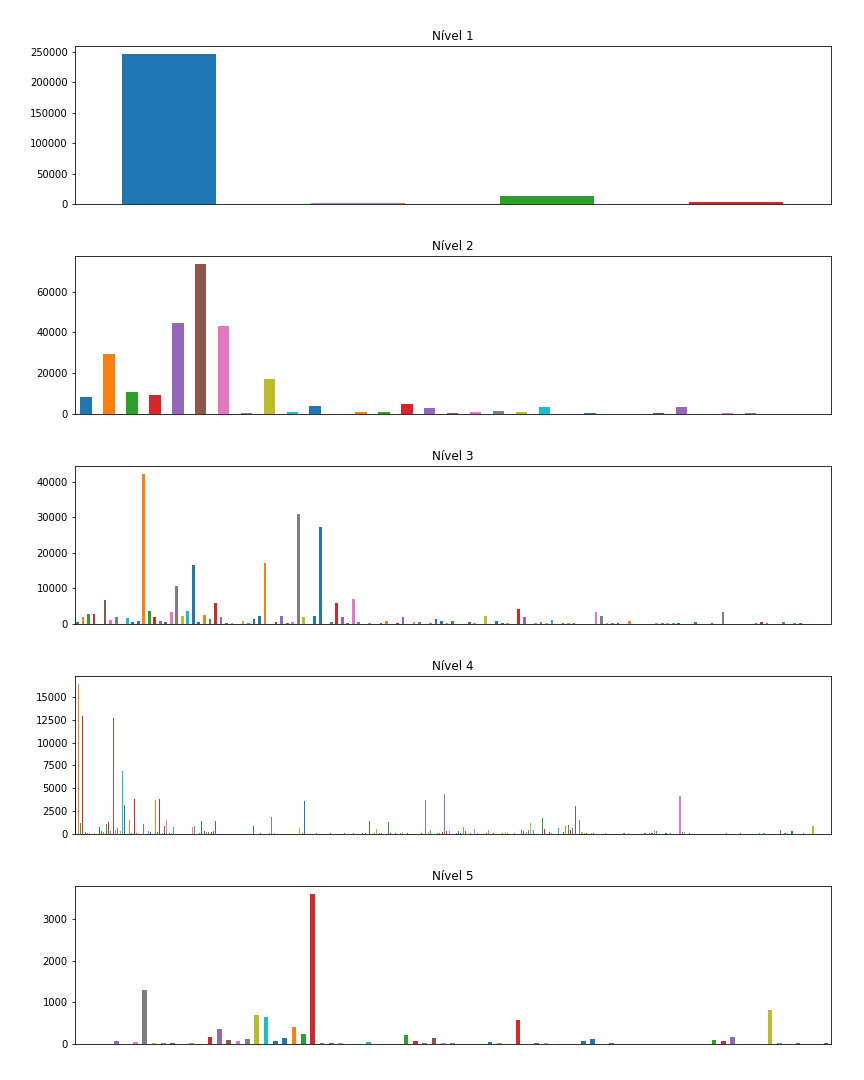
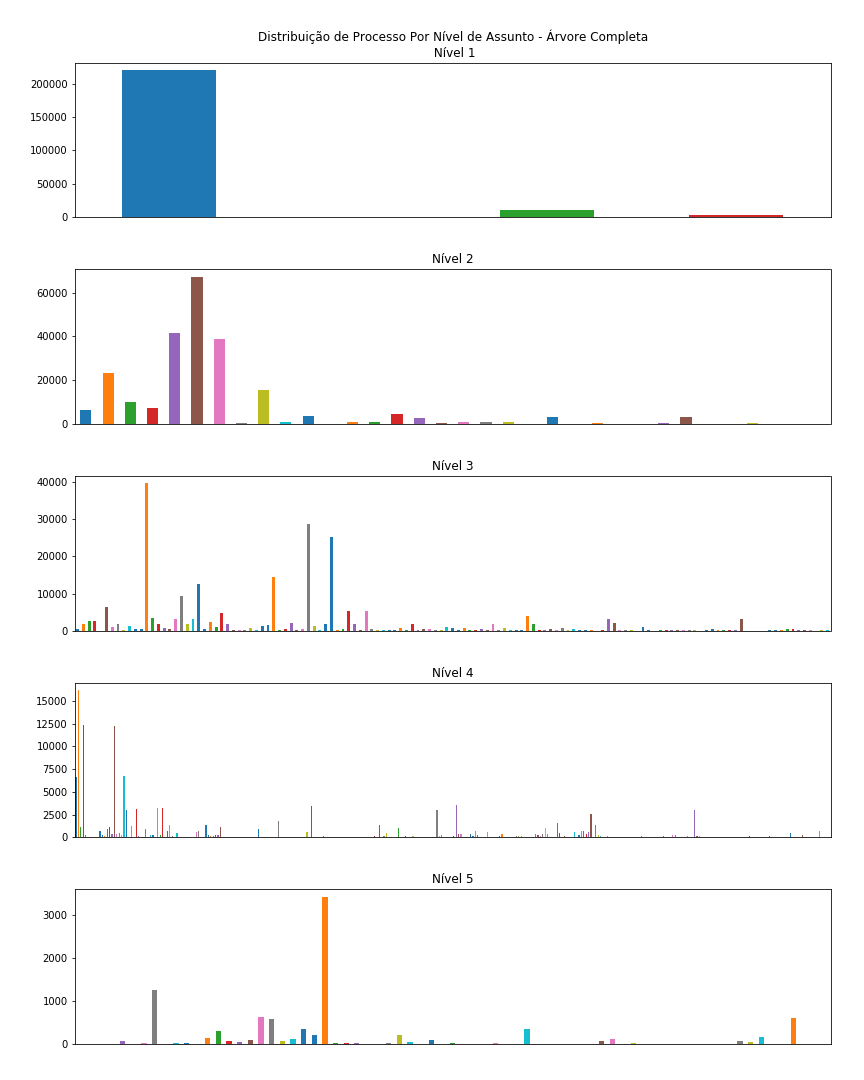
Versão do código usada para o experimento inicial

diff --git a/ClassifacaoDeAssuntos.py b/ClassifacaoDeAssuntos.py
@@ -6,8 +6,8 @@ Created on Fri Jun 22 17:09:43 2018
 
 @author: anarocha
 """
-import multiprocessing
-multiprocessing.set_start_method('forkserver')
+#import multiprocessing
+#multiprocessing.set_start_method('forkserver')
 from SolrClient import SolrClient
 import multiprocessing as mp
 
@@ -70,7 +70,7 @@ solrDataAnalise = solr.query('classificacaoDeDocumentos_hierarquiaCompleta',{
 })
 dfGeral = pd.DataFrame(solrDataAnalise.docs)  
     
-analisaTodosOsNiveis(dfGeral, '/home/anarocha/Documentos/myGit/git/classificadorDeAssuntos/imagens/TRT15_2GRAU_Distribuicao_De_Processos_Por_Nivel_Assunto_ArvoreCompleta.png')
+analisaTodosOsNiveis(dfGeral, './imagens/TRT15_2GRAU_Distribuicao_De_Processos_Por_Nivel_Assunto_ArvoreCompleta.png', 'Distribuição de Processo Por Nível de Assunto - Árvore Completa')
 
 # =============================================================================
 # Fazendo uma análise específica da subarvore do DIREITO DO TRABALHO (Código 864)
@@ -81,7 +81,7 @@ solrDataAnalise = solr.query('classificacaoDeDocumentos_hierarquiaCompleta',{
 })
 dfGeral = pd.DataFrame(solrDataAnalise.docs)  
     
-analisaTodosOsNiveis(dfGeral, '/home/anarocha/Documentos/myGit/git/classificadorDeAssuntos/imagens/TRT15_2GRAU_Distribuicao_De_Processos_Por_Nivel_Assunto_DiretoDoTrabalho.png')
+analisaTodosOsNiveis(dfGeral, './imagens/TRT15_2GRAU_Distribuicao_De_Processos_Por_Nivel_Assunto_DiretoDoTrabalho.png', 'Distribuição de Processo Por Nível de Assunto - Árvore de Direito do Trabalho')
 
 
 
@@ -237,7 +237,7 @@ del(modeloTfidfTreinamento)
 print(time.time() - start_time)
 
 
-corpus_treinamento_tfidf_sparse = matutils.corpus2csc(corpora.MmCorpus('/home/anarocha/Documentos/myGit/git/classificadorDeAssuntos/Data/corpus/corpusTreinamento_TFIDF.mm'), tamanho_dicionario).transpose()
+corpus_treinamento_tfidf_sparse = matutils.corpus2csc(corpora.MmCorpus('./Data/corpus/corpusTreinamento_TFIDF.mm'), tamanho_dicionario).transpose()
 corpus_treinamento_tfidf_sparse.shape
 
 #------------------------------------------------------------------------------
@@ -329,9 +329,6 @@ assuntos_Teste.shape
 # INDUÇÃO DE MODELOS 
 ################################################################################################################################
 
-# =============================================================================
-# TF-IDF
-# =============================================================================
 classes = pd.DataFrame(assuntos_Teste['cd_assunto_nivel_2'].astype('category').values.describe())
 classes.reset_index(inplace=True)
 classes = classes.categories.tolist()
@@ -348,6 +345,10 @@ naive_bayes(corpus_treinamento_tfidf_sparse,assuntos_Treinamento['cd_assunto_niv
 print('NB' + str(time.time() - start_time))
 
 start_time = time.time()
+mlp(corpus_treinamento_tfidf_sparse,assuntos_Treinamento['cd_assunto_nivel_2'],corpus_teste_tfidf_sparse,  assuntos_Teste['cd_assunto_nivel_2'], 1,classes,'TFIDF')
+print('mlp' + str(time.time() - start_time))
+
+start_time = time.time()
 svm(corpus_teste_tfidf_sparse,assuntos_Teste['cd_assunto_nivel_2'],corpus_teste_tfidf_sparse, assuntos_Teste['cd_assunto_nivel_2'], 1,classes,'TFIDF')
 print('SVM' + str(time.time() - start_time))
 
@@ -355,9 +356,7 @@ start_time = time.time()
 random_forest(corpus_treinamento_tfidf_sparse,assuntos_Treinamento['cd_assunto_nivel_2'],corpus_teste_tfidf_sparse,  assuntos_Teste['cd_assunto_nivel_2'], 1,classes,'TFIDF')
 print('RF' + str(time.time() - start_time))
 
-start_time = time.time()
-mlp(corpus_treinamento_tfidf_sparse,assuntos_Treinamento['cd_assunto_nivel_2'],corpus_teste_tfidf_sparse,  assuntos_Teste['cd_assunto_nivel_2'], 1,classes,'TFIDF')
-print('mlp' + str(time.time() - start_time))
+
 
 
     

diff --git a/funcoes.py b/funcoes.py
@@ -55,11 +55,11 @@ avaliacaoFinal.columns=['Model','Features','Macro Precision', 'Macro Recall', 'M
 modelos=[]
 
 
-def analisaTodosOsNiveis (dfGeral, path):
+def analisaTodosOsNiveis (dfGeral, path, title):
     
     fig = plt.figure()
     ax1 = fig.add_subplot(5,1,1)
-    ax1.title.set_text('Nível 1')
+    ax1.title.set_text(title + '\n Nível 1')
     dfGeral.groupby('cd_assunto_nivel_1').id_processo_documento.count().plot.bar(ylim=0)
     plt.gca().axes.get_xaxis().set_visible(False)
     
@@ -88,8 +88,10 @@ def analisaTodosOsNiveis (dfGeral, path):
     
     fig.set_figheight(15)
     fig.set_figwidth(12)
-    fig.tight_layout(pad=3)
+    fig.tight_layout(pad=3)    
     plt.show()
+    fig.savefig(path) 
+
 
 # =============================================================================
 # Funçao de processamento do texto
@@ -175,7 +177,7 @@ def naive_bayes(training_corpus,training_classes,test_corpus, test_classes, clas
     
     clf_NB = MultinomialNB()
     clf_NB_grid = GridSearchCV(estimator=clf_NB, param_grid=param_grid,
-                                         scoring='f1_weighted',n_jobs=4,cv=5, verbose=4)
+                                         scoring='f1_weighted',n_jobs=5,cv=5, verbose=4)
     
     clf_NB_grid.fit(training_corpus, training_classes)
     
@@ -213,12 +215,12 @@ def naive_bayes(training_corpus,training_classes,test_corpus, test_classes, clas
 def svm(training_corpus,training_classes,test_corpus, test_classes, classNumber,classes,featureType):
     param_grid = {
         'kernel':['linear', 'poly', 'rbf', 'sigmoid'],
-        'C': [0.1,10,100],
-        'gamma':[0.1,5,10]
+        'C': [0.1,10],
+        'gamma':[0.1,1]
     }
     clf_SVM = SVC(random_state=0, class_weight='balanced')
     clf_SVM_grid = GridSearchCV(estimator=clf_SVM, param_grid=param_grid,
-                                         scoring='f1_weighted',cv=5, verbose=4)
+                                         scoring='f1_weighted',cv=5, verbose=4,n_jobs=5)
     clf_SVM_grid.fit(training_corpus, training_classes)
     
     clf_SVM = clf_SVM_grid.best_estimator_
@@ -266,7 +268,7 @@ def random_forest(training_corpus,training_classes,test_corpus, test_classes, cl
     }
     clf_RF = RandomForestClassifier(random_state=1986,bootstrap=False)
     clf_RF_grid = GridSearchCV(estimator=clf_RF, param_grid=param_grid,
-                                         scoring='f1_weighted',n_jobs=4,verbose=4,cv=5)
+                                         scoring='f1_weighted',n_jobs=5,verbose=4,cv=5)
     clf_RF_grid.fit(training_corpus, training_classes)
 
     clf_RF = clf_RF_grid.best_estimator_
@@ -309,18 +311,18 @@ def mlp(training_corpus,training_classes,test_corpus, test_classes, classNumber,
     classesCM = classes
     
     param_grid = {
-        'learning_rate_init':[0.01,0.001,0.0001],
+        'learning_rate_init':[0.01,0.001],
         'hidden_layer_sizes':[(5,5), (5)],
         'activation': ['identity', 'logistic', 'tanh', 'relu'],
-        'momentum':[0.4,0.8],
+        'momentum':[0.5],
         'solver':['lbfgs', 'sgd', 'adam'],
-        'learning_rate':['constant', 'invscaling', 'adaptive'],
+        'learning_rate':['adaptive'],
      }
     
     clf_MLP = MLPClassifier( batch_size='auto',
            beta_1=0.9, beta_2=0.999, early_stopping=False,
-            momentum=0.9,   random_state=1, 
-           solver='lbfgs', tol=0.0001, validation_fraction=0.1, verbose=False,
+             random_state=1, 
+            tol=0.0001, validation_fraction=0.1, verbose=False,
            warm_start=False)
     
     clf_MLP_grid = GridSearchCV(estimator = clf_MLP, param_grid = param_grid, 
